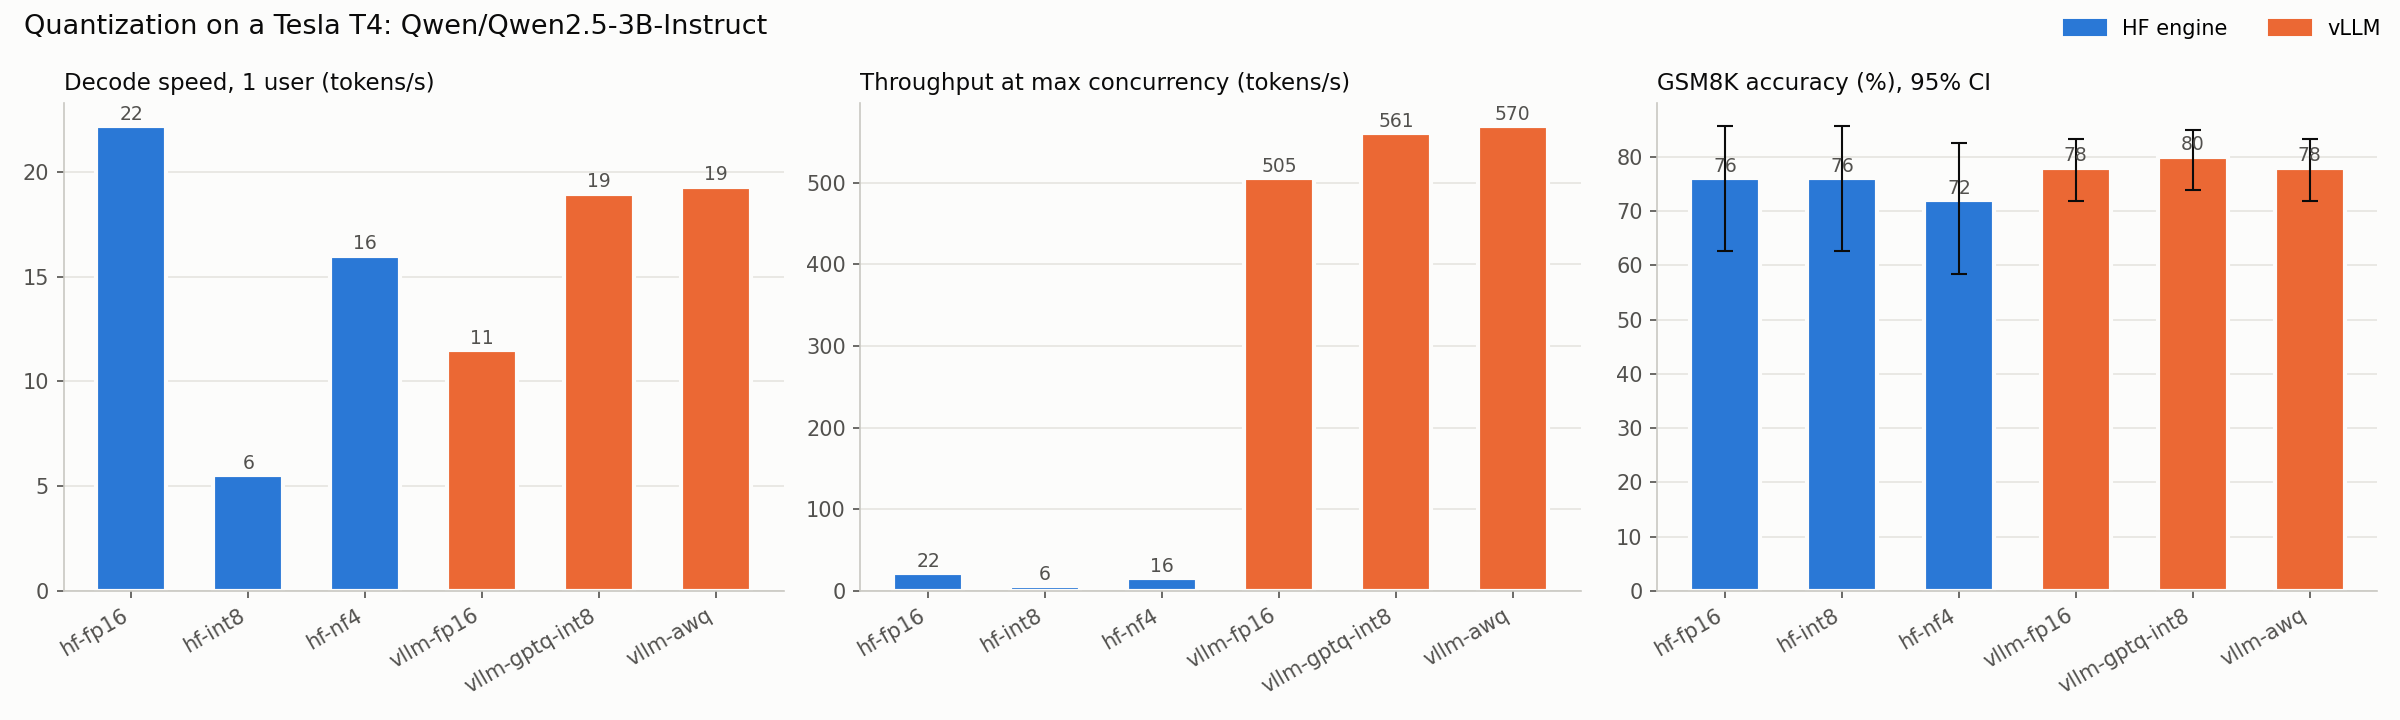
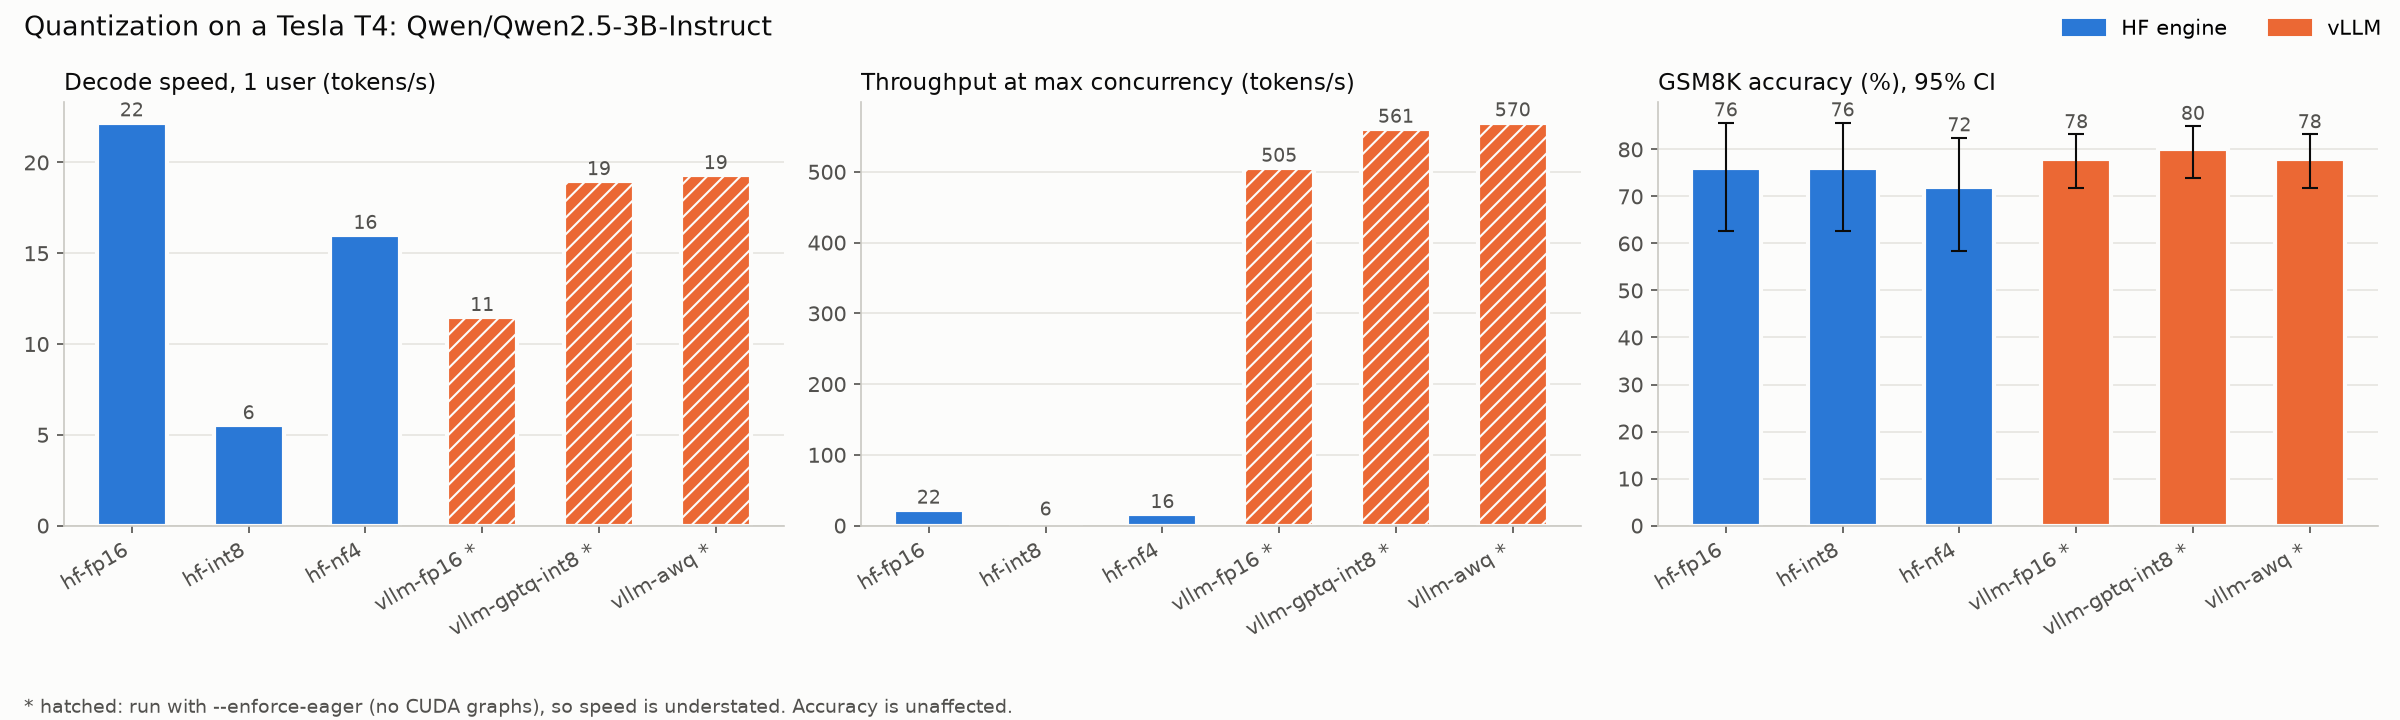
Week 3: flag eager-mode vLLM runs on the chart
The week 3 vLLM runs used --enforce-eager, which understates their speed.
Record the flag in each run's meta file, hatch the affected speed bars and
add a footnote. Move GSM8K value labels above the CI caps. The report now
notes that week 4 will start with a clean vLLM baseline.

diff --git a/results/week3/report.md b/results/week3/report.md
@@ -37,6 +37,8 @@ Generated 2026-10-19 04:10 UTC
   notebook now refuses to apply the fallback after a passing check.
 - **Anomaly:** `vllm-fp16` at concurrency 1 measured TPOT 102.6 ms, slower than its own 40.6 ms at
   concurrency 8. Treat that cell as unreliable until re-measured without `--enforce-eager`.
+- **Follow-up:** a clean vLLM baseline (fp16 and AWQ, CUDA graphs on) is the first run of week 4 and
+  replaces the vLLM speed numbers above. Accuracy, memory and KV-cache numbers are unaffected.
 
 ## Findings
 _Write these yourself. See the questions at the end of the notebook._
